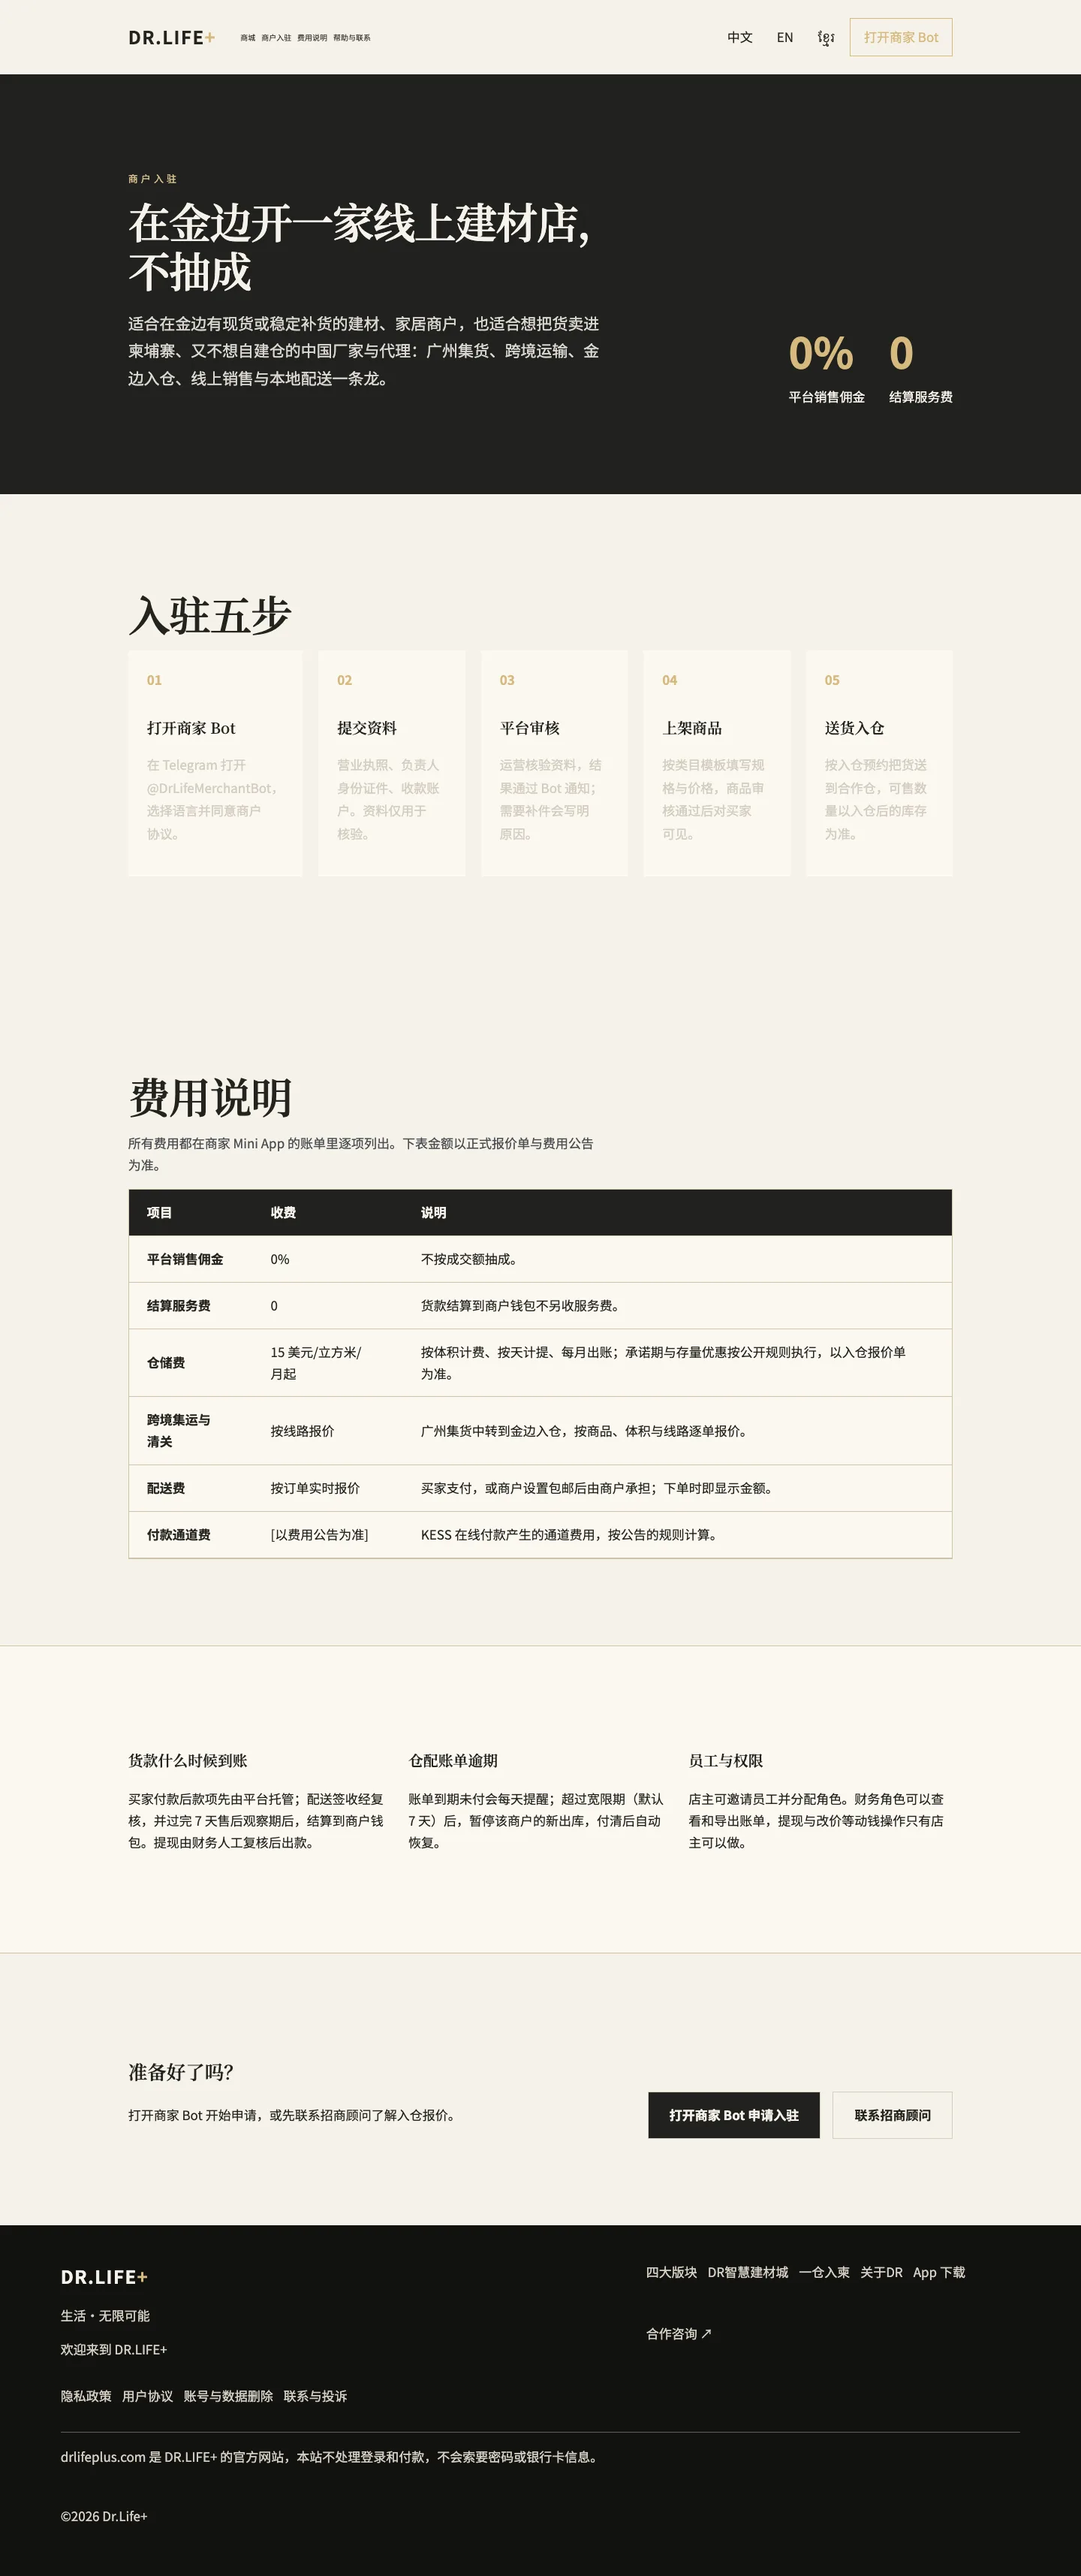
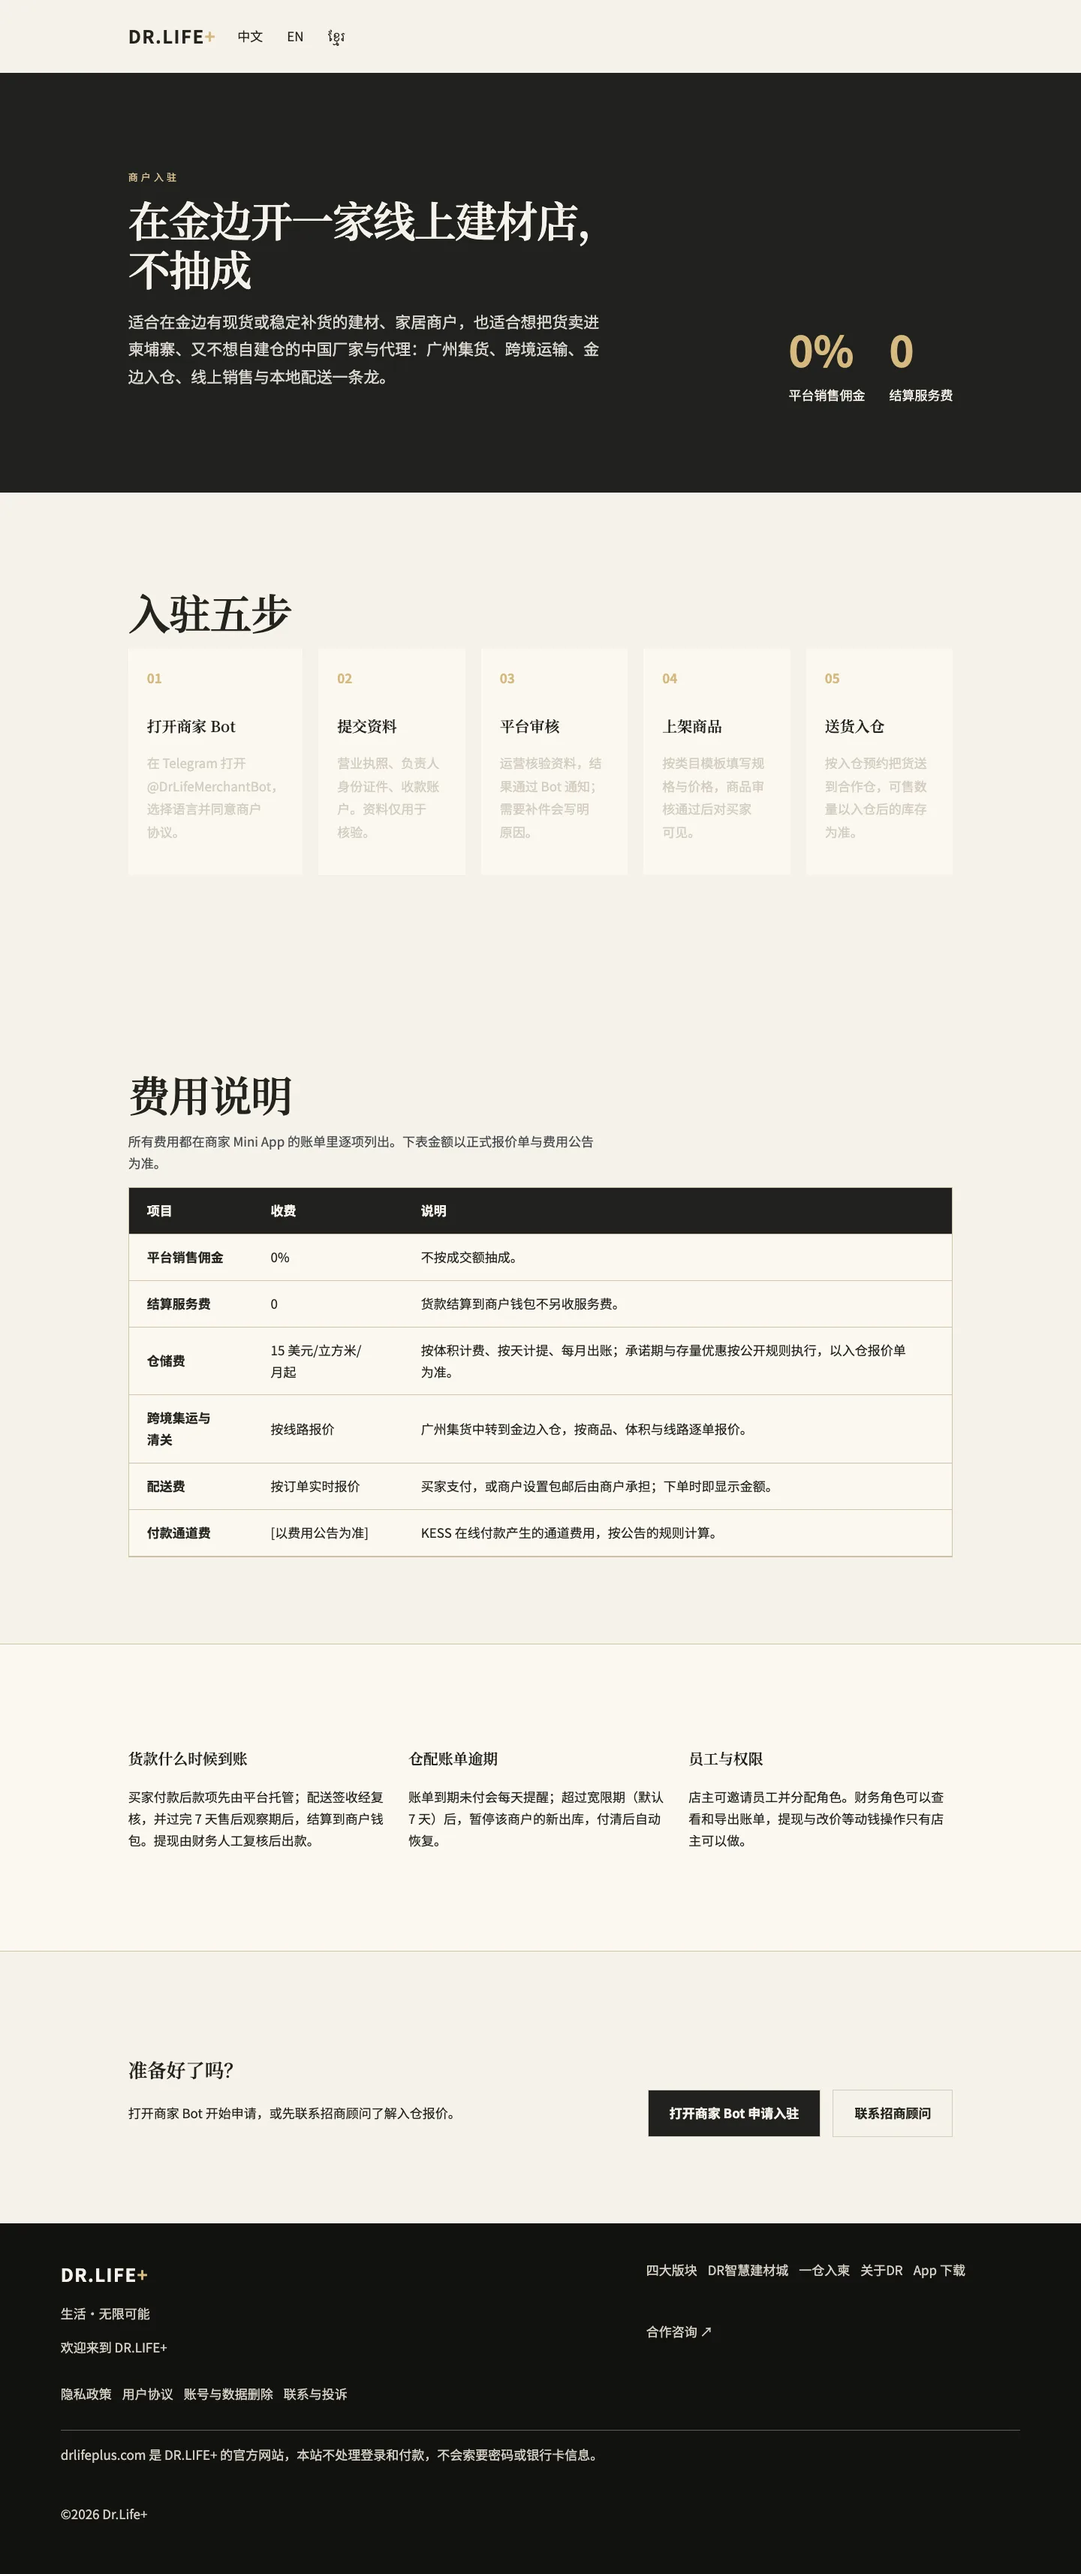
#233 刷新官网视觉返工证据

diff --git a/index.md b/index.md
@@ -1,6 +1,6 @@
 # PR #233 screenshot evidence
 
-Generated from the local capture scripts for PR head `54fe516` (`[返工] #230 对齐官网合作与应用版块布局`).
+Generated from the local capture scripts for PR head `e90182d` (`#233 修复官网导航与官方渠道视觉验收`).
 
 All 72 evidence files in this branch are WebP and are below 300 KB each.
 
@@ -18,6 +18,6 @@ The remaining 36 files are the buyer home and order-list plus merchant home matr
 
 ## Acceptance evidence
 
-- Website screenshot evidence: PASS — 36 current-head captures for `54fe516` at 360/390/768/1280/1440/1920 × zh/en/km × home/merchant.
+- Website screenshot evidence: PASS — 36 current-head captures for `e90182d` at 360/390/768/1280/1440/1920 × zh/en/km × home/merchant.
 - Mini App screenshot evidence: PASS — 36 captures retained from the immediately preceding `ed2f87d` head; this rework changes only website CSS and website screenshot assertions, not Mini App code.
-- Local verification: PASS — website build, website screenshot capture 36/36, website geometry assertions (full-bleed, alignment, nav/action separation and section gap), and `git diff --check`.
+- Local verification: PASS — website 50/50 tests, build, website screenshot capture 36/36, typography/channel-spacing/container-alignment/nav-action assertions, and `git diff --check`.
